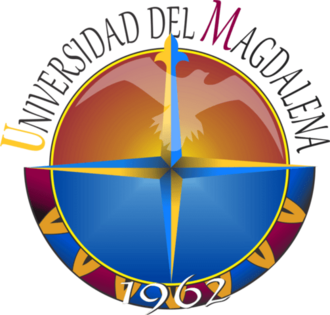
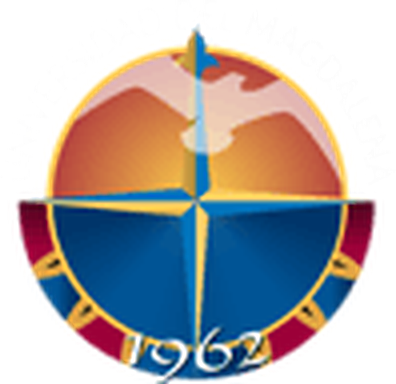
feat(login): escudo vigente de la universidad en el panel de inicio
Version con el texto en blanco, directo sobre el fondo azul del panel (en el
recuadro blanco anterior el texto no se veria), a 72 px de alto.

diff --git a/core/dashboard_base/sesion.py b/core/dashboard_base/sesion.py
@@ -106,18 +106,10 @@ def _panel_contexto() -> None:
             max-width: 430px;
             margin-left: 20px;
         ">
-            <!-- Icono en contenedor blanco para que sea visible sobre el fondo oscuro -->
-            <div style="
-                width: 60px; height: 60px;
-                background: rgba(255,255,255,0.92);
-                border-radius: 14px;
-                display: flex;
-                align-items: center;
-                justify-content: center;
-                margin-bottom: 24px;
-                box-shadow: 0 2px 12px rgba(0,0,0,0.2);
-            ">
-                <img src="{escudo_uri}" style="height: 48px;">
+            <!-- Escudo de la universidad directo sobre el fondo oscuro: es la
+                 version con el texto en blanco, que en un recuadro blanco no se veria -->
+            <div style="margin-bottom: 22px;">
+                <img src="{escudo_uri}" alt="Universidad del Magdalena" style="height: 72px; display: block;">
             </div>
 
             <h1 style="
